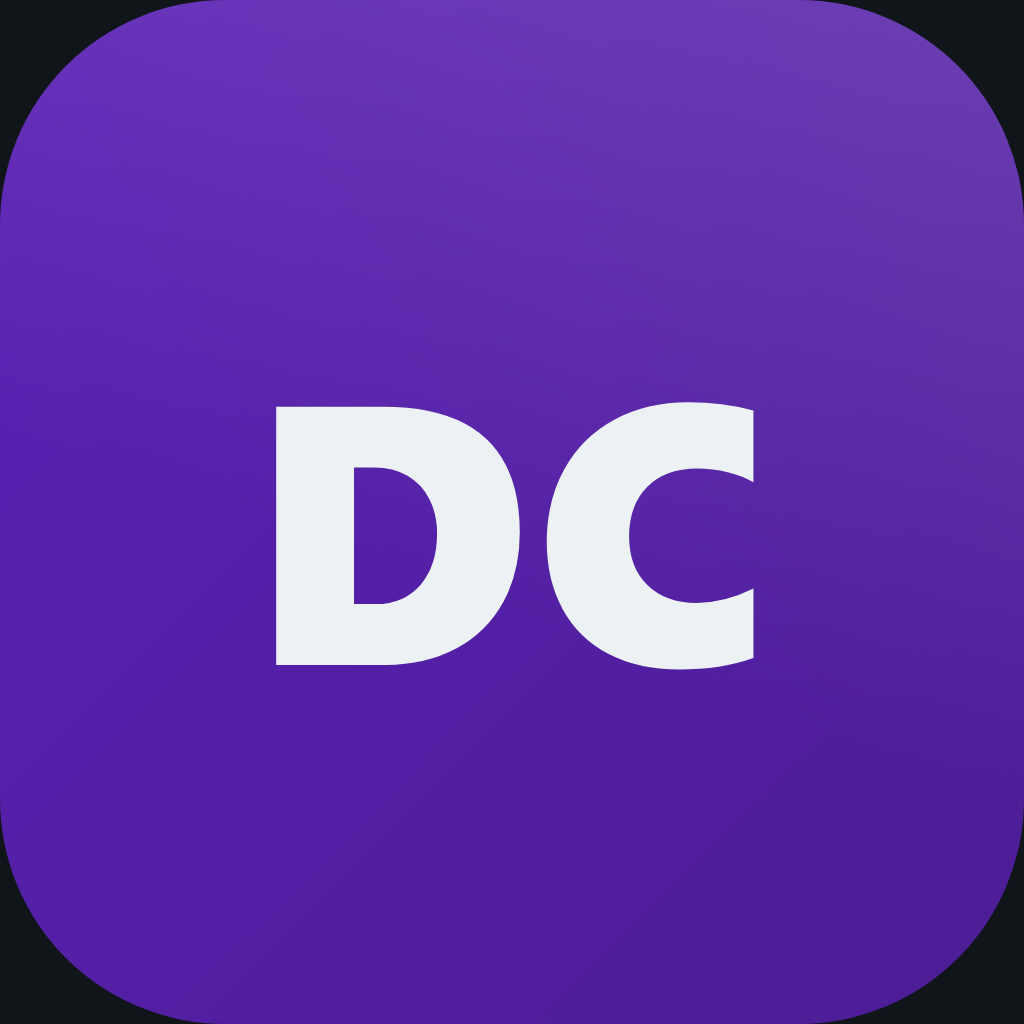
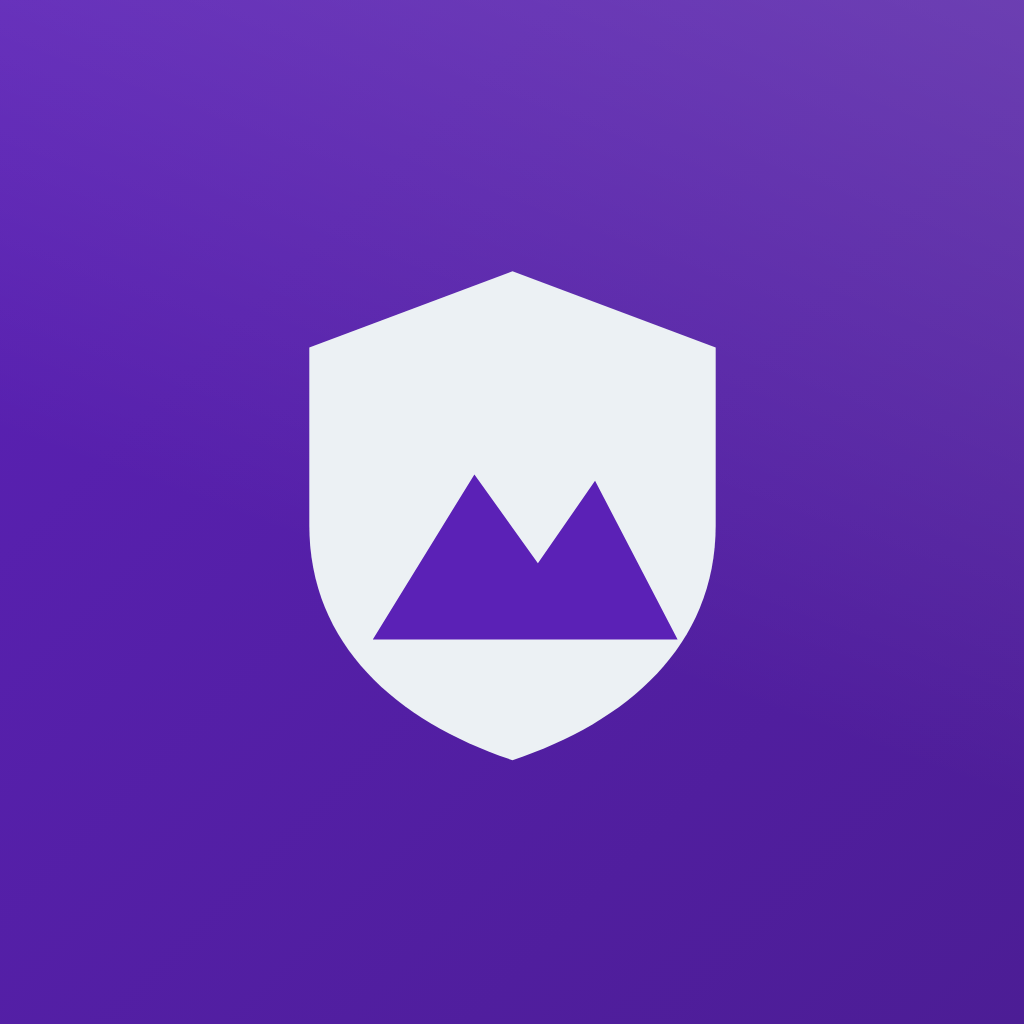
Marca do aplicativo, folga de rede local no iOS e scripts alcancando os pacotes novos
Trabalho que ja estava em andamento antes desta rodada de implantacao, agrupado
para nao se misturar com as correcoes de seguranca do commit seguinte:

- Opcoes de icone e de identidade do aplicativo de campo, mais o gerador que as
  produz, para a escolha da marca ser feita olhando alternativas lado a lado em
  vez de no escuro.
- `NSAppTransportSecurity` do iOS passa a admitir uma folga para rede local, e
  ela precisa ser pedida de proposito com DC360_DEV_LOCAL=1. Serve para instalar
  o aplicativo num aparelho pelo cabo e falar com a API rodando no Mac, que
  atende em http num endereco de faixa privada. Sem isso a tela de entrada gira
  sem explicar, porque o sistema corta a conexao antes dela sair do aparelho.
  `NSAllowsLocalNetworking` libera somente nome .local e IP privado: endereco
  publico continua exigindo https, entao um build gerado com a folga ligada por
  engano nao passa a aceitar servidor qualquer na internet.
- Os scripts `build` e `build:shared` passam a compilar tambem `@dc360/db` e
  `@dc360/campo`. Sem isso, uma construcao limpa quebrava ao procurar o `dist`
  de pacotes que ninguem tinha mandado compilar.
- Atalhos `start:env`, `migrar:env` e `provisionar:env` na API, para rodar os
  comandos contra um `.env` preenchido sem repetir a URL na linha de comando.

diff --git a/dc360/apps/campo/app.config.ts b/dc360/apps/campo/app.config.ts
@@ -69,8 +69,27 @@ const config: ExpoConfig = {
       NSPhotoLibraryAddUsageDescription:
         "As fotografias da vistoria podem ser salvas no aparelho para servirem " +
         "de cópia até a sincronização com a Defesa Civil terminar.",
-      // Sem exceção de transporte: tudo trafega por https.
-      NSAppTransportSecurity: { NSAllowsArbitraryLoads: false },
+      /*
+        Sem exceção de transporte: tudo trafega por https.
+
+        A única folga é para desenvolvimento em rede local, e ela precisa ser
+        pedida de propósito (DC360_DEV_LOCAL=1). Serve para o caso de instalar
+        o aplicativo num aparelho pelo cabo e falar com a API rodando no Mac,
+        que atende em http num endereço 10.x ou 192.168.x. Sem isso a tela de
+        entrada gira e não explica, porque o sistema corta a conexão antes de
+        ela sair do aparelho.
+
+        NSAllowsLocalNetworking libera SOMENTE nome .local e IP de faixa
+        privada. Endereço público continua exigindo https, então um build
+        gerado com esta folga ligada por engano não passa a aceitar servidor
+        qualquer na internet. Ainda assim, build de loja sai sem a variável.
+      */
+      NSAppTransportSecurity: {
+        NSAllowsArbitraryLoads: false,
+        ...(process.env["DC360_DEV_LOCAL"] === "1"
+          ? { NSAllowsLocalNetworking: true }
+          : {}),
+      },
       ITSAppUsesNonExemptEncryption: false,
     },
   },

diff --git a/dc360/docs/COLOCAR-DE-PE.md b/dc360/docs/COLOCAR-DE-PE.md
@@ -20,7 +20,7 @@ código.** Os bloqueios são de terceiros e de tempo de espera:
 
 **O que DÁ para ter no fim de semana, e é o que importa para testar de verdade:**
 
-1. **Backend em produção real** — servidor, banco, domínio, HTTPS. Isso é
+1. **Backend em produção real**: servidor, banco, domínio, HTTPS. Isso é
    inteiramente possível em um fim de semana.
 2. **O app rodando no seu iPhone**, via simulador do Xcode (grátis, agora) e
    via TestFlight/build interno (com a conta paga, **sem** revisão de loja).
@@ -31,7 +31,7 @@ D-U-N-S e a revisão não forem gargalo.
 
 ---
 
-## Parte 1 — O que já está pronto (não precisa mexer)
+## Parte 1: o que já está pronto (não precisa mexer)
 
 - Painel web (React + Vite), aplicativo de campo (Expo, **mesmo código para iOS
   e Android**), API (Fastify), banco (PostgreSQL + PostGIS), esquemas Zod
@@ -42,14 +42,14 @@ D-U-N-S e a revisão não forem gargalo.
   vistoria offline, laudo, termo de interdição e desinterdição, contagem de
   pessoas.
 - O app foi verificado inteiro no emulador **Android**: menu, minuta, login,
-  GPS, câmera, o ciclo completo. **Nunca rodou em iOS** — é o que você vai fazer
+  GPS, câmera, o ciclo completo. **Nunca rodou em iOS**, e é o que você vai fazer
   no Mac.
 
 ---
 
-## Parte 2 — Os 5 bloqueios do app iOS (resolver ANTES do primeiro build)
+## Parte 2: os 5 bloqueios do app iOS (resolver ANTES do primeiro build)
 
-### CRÍTICO 1 — Trocar o bundle identifier `br.gov.dc360.campo`
+### CRÍTICO 1: trocar o bundle identifier `br.gov.dc360.campo`
 
 `gov.br` é namespace de governo. Um desenvolvedor privado publicando sob ele cai
 na **política de personificação da Apple** (e da Google), e o bundle é
@@ -65,14 +65,14 @@ android.package:      "br.gov.dc360.campo"   →   "com.SUAEMPRESA.dc360campo"
 Use o CNPJ/marca sob o qual você vai vender. Isto depende de uma decisão sua
 (nome da empresa).
 
-### CRÍTICO 2 — Conta Apple Developer
+### CRÍTICO 2: conta Apple Developer
 
 - US$ 99/ano, em [developer.apple.com](https://developer.apple.com).
 - Para o fim de semana: **conta pessoal** (verificação em horas a 1–2 dias).
 - Organização (com a marca da empresa na App Store) exige D-U-N-S: peça já se
   for esse o caminho, mas não bloqueie o fim de semana por ela.
 
-### CRÍTICO 3 — Projeto Expo (EAS)
+### CRÍTICO 3: projeto Expo (EAS)
 
 O `app.config.ts` lê `EAS_PROJECT_ID` de variável, e a EAS **não define essa
 variável no worker de build**. Rode uma vez, no Mac, e ele grava o ID:
@@ -84,13 +84,13 @@ eas login
 eas init          # cria o projeto no Expo e grava o projectId
 ```
 
-### CRÍTICO 4 — O endereço do servidor no build
+### CRÍTICO 4: o endereço do servidor no build
 
 Um binário aponta para um servidor fixo. `apps/campo/eas.json` tem
 `https://api.exemplo.gov.br` nos perfis. **Troque pelo domínio real** (Parte 3)
 antes de gerar o build que você vai usar.
 
-### CRÍTICO 5 — HTTPS é pré-requisito, não opção
+### CRÍTICO 5: HTTPS é pré-requisito, não opção
 
 O app declara `NSAllowsArbitraryLoads: false`: ele **só conecta em `https://`**.
 Sem domínio com TLS válido, a tela de login gira e não explica. É por isso que o
@@ -98,9 +98,9 @@ servidor (Parte 3) vem antes do app.
 
 ---
 
-## Parte 3 — A infraestrutura, na ordem do caminho crítico
+## Parte 3: a infraestrutura, na ordem do caminho crítico
 
-### 1. Domínio (primeiro de tudo — HTTPS e o app dependem dele)
+### 1. Domínio (primeiro de tudo, porque HTTPS e o app dependem dele)
 
 - Registre em [registro.br](https://registro.br) (`.com.br`, ~R$ 40/ano) ou num
   registrador `.com`.
@@ -112,14 +112,14 @@ servidor (Parte 3) vem antes do app.
 Não use Postgres numa VM que você administra: backup só existe depois de um
 **restore testado**, e provedor gerenciado já dá isso e PITR.
 
-- **Neon** (neon.tech) ou **Supabase** — os dois têm plano inicial grátis e
+- **Neon** (neon.tech) ou **Supabase**: os dois têm plano inicial grátis e
   Postgres real. Neon é o mais direto.
 - Crie o banco `dc360`.
 - **Modelo de três papéis** (o app depende disto; provado contra Postgres real):
 
   ```sql
   -- papel de SETUP: cria papéis e migra. O provedor gerenciado já te dá um
-  -- papel administrativo com CREATEROLE e BYPASSRLS — use-o como setup.
+  -- papel administrativo com CREATEROLE e BYPASSRLS, use-o como setup.
   -- papel de APLICAÇÃO: é este que vai na DATABASE_URL da API.
   CREATE ROLE dc360_api LOGIN PASSWORD '...' NOSUPERUSER;
   -- depois de migrar (a migração 001 cria dc360_app):
@@ -141,10 +141,10 @@ Não use Postgres numa VM que você administra: backup só existe depois de um
 PaaS que dá HTTPS automático e roda contêiner ou Node:
 
 - **Fly.io**, **Railway** ou **Render**. O repositório tem `Dockerfile` e
-  `compose.yaml` (revisados, mas ainda não construídos — o job de CI
+  `compose.yaml` (revisados, mas ainda não construídos, e o job de CI
   `implantavel` os confere no primeiro push).
 - Variáveis de ambiente obrigatórias em produção (o processo **recusa subir**
-  sem elas — é de propósito):
+  sem elas, e isso é de propósito):
 
   | Variável | O que é |
   | --- | --- |
@@ -158,7 +158,7 @@ PaaS que dá HTTPS automático e roda contêiner ou Node:
   | `S3_ENDPOINT` `S3_BALDE` `S3_CHAVE_ID` `S3_CHAVE_SECRETA` | armazenamento (item 4) |
   | `RECUPERACAO_ATIVA` | `nao` no piloto, ou `sim` + `NOTIFICADOR_URL`/`_CHAVE` (item 5) |
 
-  Tudo em `https://` — a config recusa `http` e `localhost` em produção.
+  Tudo em `https://`, e a config recusa `http` e `localhost` em produção.
 
 ### 4. Armazenamento de fotos e assinaturas
 
@@ -191,7 +191,7 @@ Na primeira entrada, o coordenador troca a senha em **Minha conta**.
 
 ---
 
-## Parte 4 — No Mac, na ordem
+## Parte 4: no Mac, na ordem
 
 ```bash
 # 1. Clonar e conferir que tudo passa no Mac
@@ -217,13 +217,13 @@ Para o `eas submit`, preencha `apps/campo/eas.json` em `submit.producao.ios`
 
 ---
 
-## Parte 5 — O que só você decide (destrava o resto)
+## Parte 5: o que só você decide (destrava o resto)
 
-1. **Nome/CNPJ da empresa** — define o bundle identifier e a conta Apple.
-2. **Conta Apple: pessoal ou organização** — pessoal para o fim de semana.
-3. **Provedores** — Neon (banco), Fly/Railway (API), R2 (fotos), registro.br
+1. **Nome/CNPJ da empresa**: define o bundle identifier e a conta Apple.
+2. **Conta Apple: pessoal ou organização**, sendo pessoal a do fim de semana.
+3. **Provedores**: Neon (banco), Fly/Railway (API), R2 (fotos), registro.br
    (domínio). Todos têm plano inicial barato ou grátis.
-4. **Recuperação de senha** — desligada no piloto (recomendado) ou com provedor.
+4. **Recuperação de senha**: desligada no piloto (recomendado) ou com provedor.
 5. **Duas decisões de produto pendentes**, anotadas no código:
    - fechar a tomada de conta entre pares de mesmo posto (notificar email antigo
      ou exigir reautenticação);
@@ -244,5 +244,5 @@ Para o `eas submit`, preencha `apps/campo/eas.json` em `submit.producao.ios`
 | Apple Developer | Apple | US$ 99/ano |
 
 O gargalo de dinheiro não é a infraestrutura; é a conta Apple. O gargalo de
-tempo é o D-U-N-S (se organização) e a revisão da loja — nenhum dos dois bloqueia
+tempo é o D-U-N-S (se organização) e a revisão da loja, e nenhum dos dois bloqueia
 ter o app no seu iPhone via TestFlight neste fim de semana.
